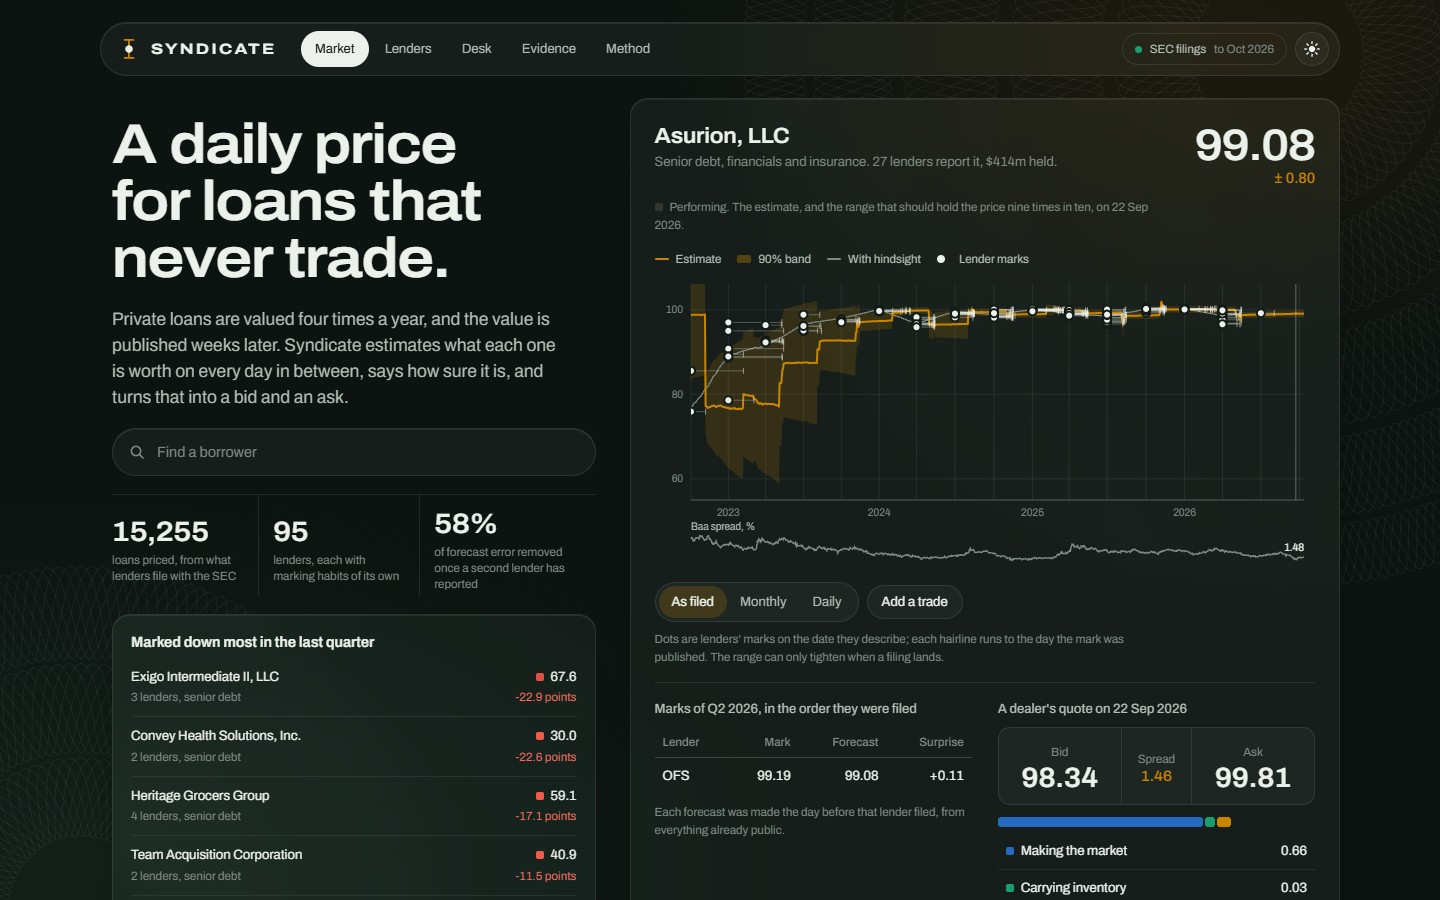
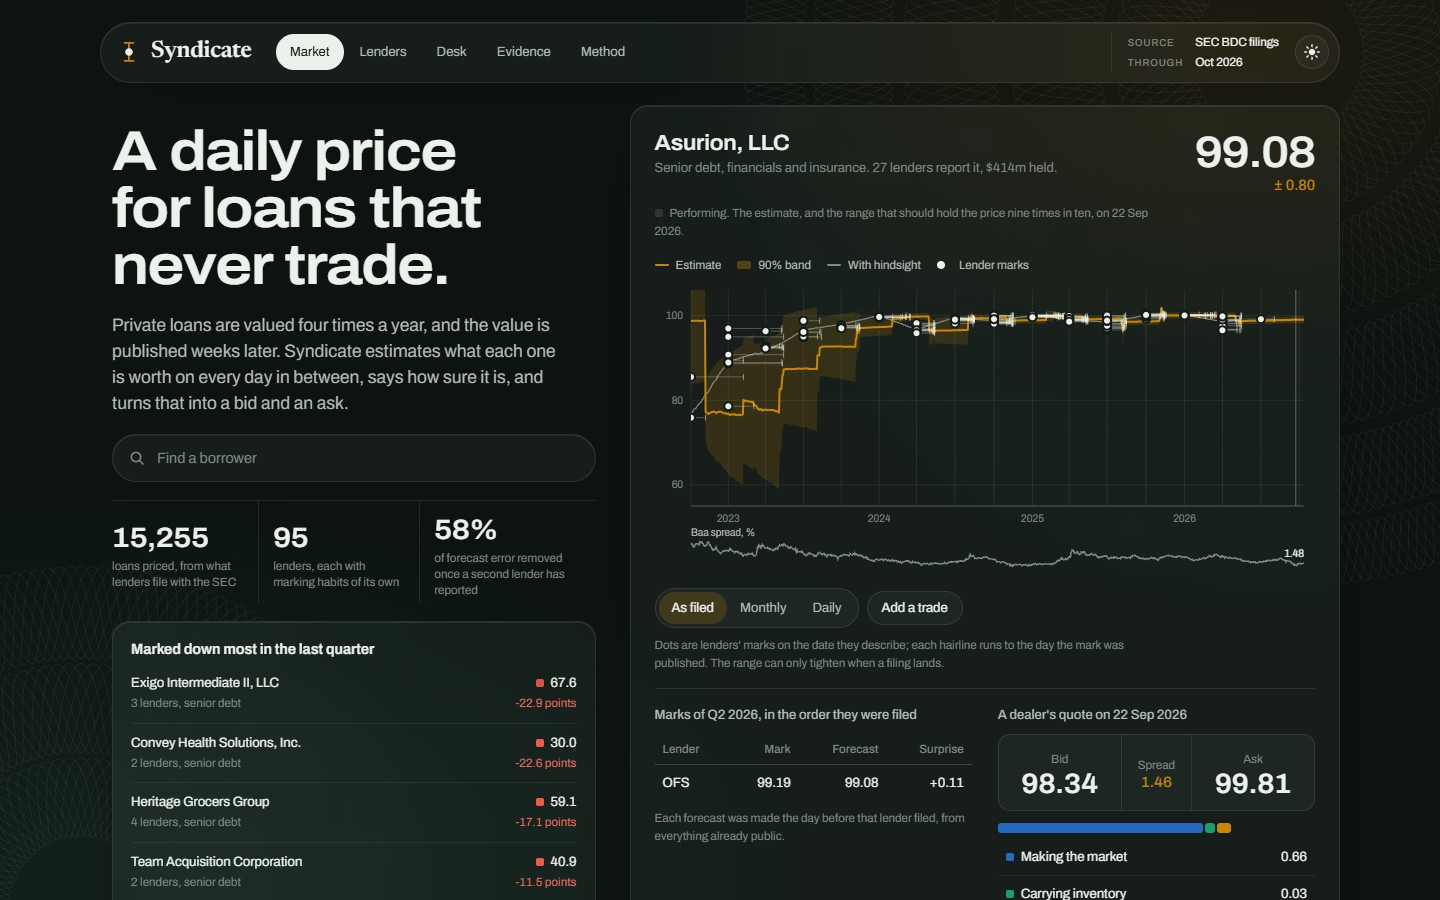
Set wordmark in serif and replace source badge with a source and date stamp

diff --git a/web/src/App.tsx b/web/src/App.tsx
@@ -219,18 +219,19 @@ export function App() {
               <path d="M16 4v24M10 4h12M10 28h12" fill="none" stroke="var(--inferred)" strokeWidth="2.4" strokeLinecap="round" />
               <circle cx="16" cy="16" r="5" fill="var(--ink-1)" />
             </svg>
-            <span>{BRAND.toUpperCase()}</span>
+            <span>{BRAND}</span>
           </button>
           <Tabs view={view} />
           <div className="nav-end">
-            <span
-              className={`source${synthetic ? "" : " source--real"}`}
+            <dl
+              className="source"
               title={synthetic ? "A simulated market with a known answer. No real company, lender or mark." : "SEC BDC data sets, as filed."}
             >
-              <i />
-              {synthetic ? "Simulated market" : "SEC filings"}
-              <b style={{ fontWeight: 400, color: "var(--ink-3)" }}>to {fmtMonth(u.meta.days[u.meta.days.length - 1])}</b>
-            </span>
+              <dt>Source</dt>
+              <dd>{synthetic ? "Simulated market" : "SEC BDC filings"}</dd>
+              <dt className="source-date">Through</dt>
+              <dd className="source-date">{fmtMonth(u.meta.days[u.meta.days.length - 1])}</dd>
+            </dl>
             <button className="icon-btn theme-btn" onClick={toggleTheme} aria-label={light ? "Switch to dark mode" : "Switch to light mode"} title={light ? "Dark mode" : "Light mode"}>
               {light ? (
                 <svg viewBox="0 0 16 16" aria-hidden="true">

diff --git a/web/src/styles.css b/web/src/styles.css
@@ -234,10 +234,12 @@ a {
   border: 0;
   padding: 4px 6px 4px 0;
   cursor: pointer;
-  font-size: var(--fs-2);
-  font-weight: 700;
-  letter-spacing: 0.16em;
-  font-variation-settings: "wdth" 118;
+  font-family: var(--serif);
+  font-size: 23px;
+  font-weight: 600;
+  letter-spacing: -0.01em;
+  font-variation-settings: "opsz" 48;
+  color: var(--ink-1);
 }
 .wordmark svg {
   width: 24px;
@@ -294,24 +296,28 @@ a {
   gap: 8px;
 }
 .source {
-  display: inline-flex;
-  align-items: center;
-  gap: 8px;
-  padding: 6px 12px;
-  border-radius: var(--radius-chip);
-  border: 1px solid var(--glass-line);
-  font-size: var(--fs-0);
-  color: var(--ink-2);
+  display: grid;
+  grid-template-columns: auto auto;
+  align-items: baseline;
+  column-gap: 12px;
+  row-gap: 2px;
+  margin: 0 8px 0 0;
+  padding: 1px 0 1px 16px;
+  border-left: 1px solid var(--glass-line);
   white-space: nowrap;
 }
-.source i {
-  width: 7px;
-  height: 7px;
-  border-radius: 50%;
-  background: var(--ink-3);
+.source dt {
+  color: var(--ink-3);
+  font-size: 10px;
+  font-weight: 500;
+  letter-spacing: 0.09em;
+  text-transform: uppercase;
 }
-.source--real i {
-  background: var(--good);
+.source dd {
+  margin: 0;
+  color: var(--ink-1);
+  font-size: 12px;
+  font-variant-numeric: tabular-nums;
 }
 .icon-btn {
   width: 34px;
@@ -1054,7 +1060,7 @@ blockquote cite {
     flex-basis: 100%;
     margin-left: 0;
   }
-  .source b {
+  .source .source-date {
     display: none;
   }
   .facts {
